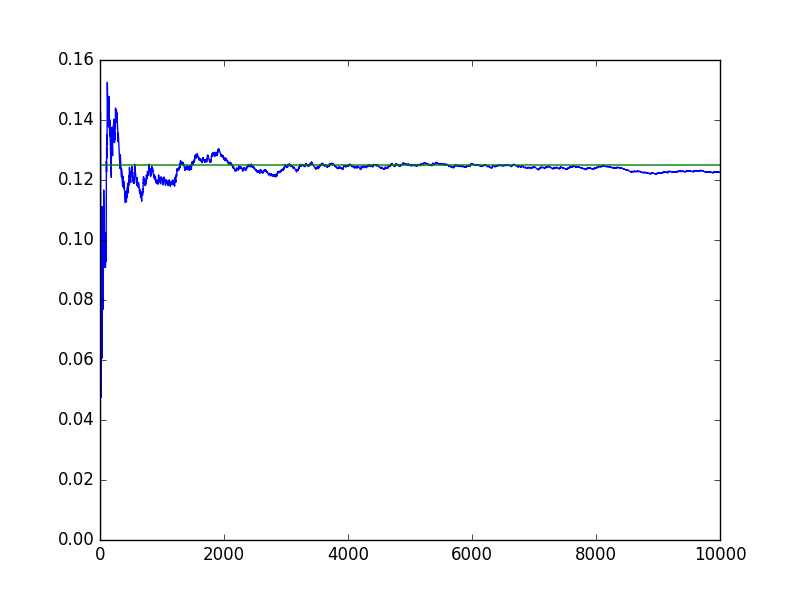
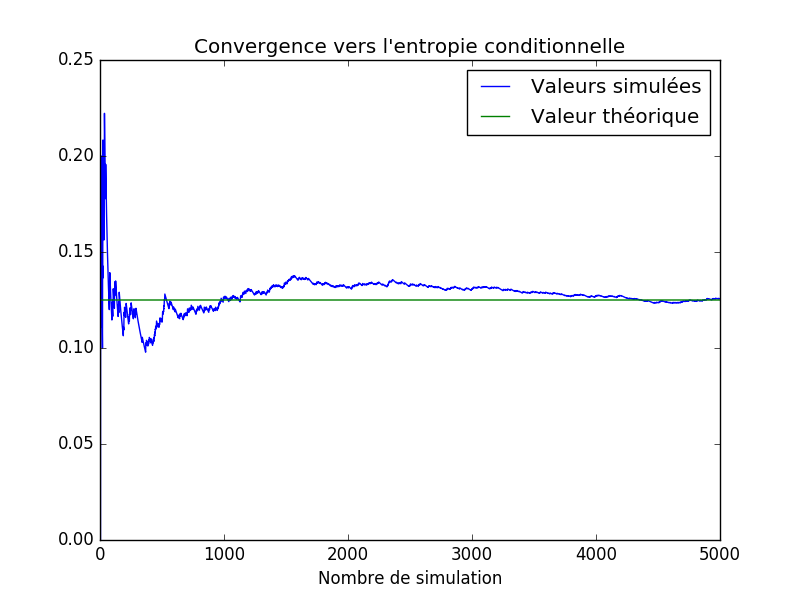
Modification de l'image et du code la générant

diff --git a/Q6.py b/Q6.py
@@ -53,17 +53,21 @@ def simul(k):
     
     for i in range(1,k) :
         I[i] = Pxy[:, Y[i]] * Px / np.sum(Px * Pxy[:, Y[i]])
-        if Hx(I[i]) > Hx(Px):
-            print(Hx(I[i]))
-            print(i, I[i])
+#        #chercher des valeurs plus grandes que H(X)
+#        if Hx(I[i]) > Hx(Px):
+#            print(Hx(I[i]))
+#            print(i, I[i])
         H[i] = (Hx(I[i]) + (i-1) * H[i-1])/i
     return H
 
 def Q6b(k):
     simu = simul(k)
-    plt.plot(range(k), simu)
-    plt.plot(range(k), np.ones(k) * limit)
+    plt.plot(range(k), simu, label = "Valeurs simulées")
+    plt.plot(range(k), np.ones(k) * limit, label = "Valeur théorique")
     plt.ymax = 1
+    plt.title("Convergence vers l'entropie conditionnelle")
+    plt.xlabel('Nombre de simulation')
+    plt.legend(loc='best')
     
     plt.show()
     return None
